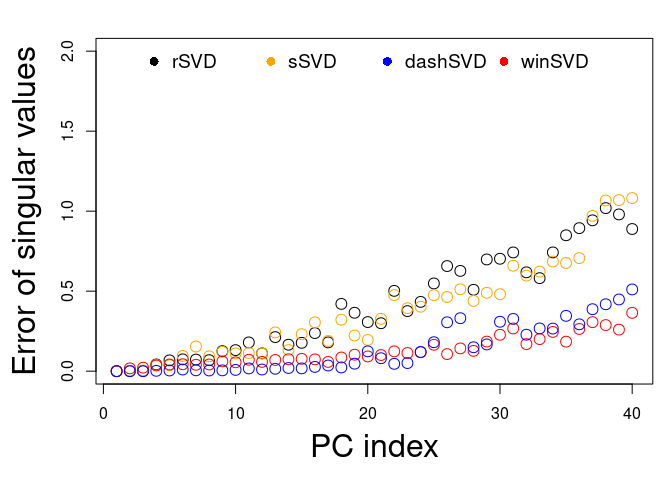
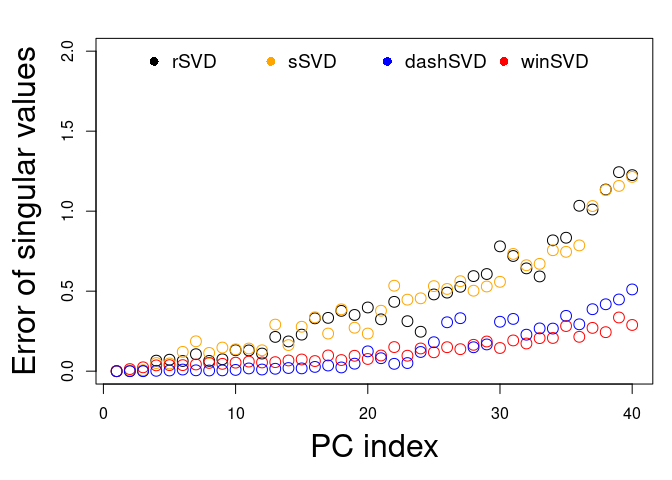
update readme

Changed region(s): [[0.1875, 0.3438, 0.9688, 0.7812]]

diff --git a/README.md b/README.md
@@ -23,8 +23,7 @@ ordered by their accuracy in below.
 
 With surports for a number of matrix type including:
 
-  - `matrix` in base R
-  - `dgeMatrix` in **Matrix** package, for general matrices
+  - `matrix` in base R for general dense matrices
   - `dgCMatrix` in **Matrix** package, for column major sparse matrices
   - `dgRMatrix` in **Matrix** package, for row major sparse matrices
 
@@ -49,9 +48,9 @@ mat <- matrix(rnorm(100*5000), 5000, 100)
 res <- pcaone(mat, k = 10)
 str(res)
 #> List of 3
-#>  $ d: num [1:10] 80.1 79.9 79.6 79 78.8 ...
-#>  $ u: num [1:5000, 1:10] 0.00058 -0.02966 0.0031 0.0049 0.00569 ...
-#>  $ v: num [1:100, 1:10] -0.3033 0.1388 -0.02 -0.1313 0.0323 ...
+#>  $ d: num [1:10] 80 80 79.4 78.9 78.6 ...
+#>  $ u: num [1:5000, 1:10] -0.0049 0.0192 -0.01689 0.00352 -0.00502 ...
+#>  $ v: num [1:100, 1:10] -0.07187 -0.19122 -0.01924 -0.08518 0.00784 ...
 #>  - attr(*, "class")= chr "pcaone"
 ```
 
@@ -71,19 +70,19 @@ A <- popgen - rowMeans(popgen) ## center
 k <- 40
 system.time(s0 <- RSpectra::svds(A, k = k) )
 #>    user  system elapsed 
-#>  27.474   3.009   1.279
+#>  28.748   5.671   1.461
 system.time(s1 <- rsvd::rsvd(A, k = k, q = 4))  ## the number of epochs is two times of power iters, 4*2=8
 #>    user  system elapsed 
-#>   8.064  12.305   0.921
+#>   8.630  13.607   1.017
 system.time(s2 <- pcaone(A, k = k, method = "ssvd", p = 7))   ## the number of epochs is 1 + p
 #>    user  system elapsed 
-#>   6.892   4.949   0.499
+#>  17.099  34.516   3.563
 system.time(s3 <- pcaone(A, k = k, method = "winsvd", p = 7)) ## the number of epochs is 1 + p
 #>    user  system elapsed 
-#>   8.821   7.993   0.821
+#>  37.849 108.382   7.642
 system.time(s4 <- pcaone(A, k = k, method = "dashsvd", p = 6))## the number of epochs is 2 + p
 #>    user  system elapsed 
-#>   5.290   1.041   0.295
+#>   5.980   5.223   0.608
 
 par(mar = c(5, 5, 2, 1))
 plot(s0$d-s1$d, ylim = c(0, 10), xlab = "PC index", ylab = "Error of singular values", cex = 1.5, cex.lab = 2)
@@ -101,13 +100,13 @@ to reach the accuracy of `winSVD`.
 ``` r
 system.time(s1 <- rsvd::rsvd(A, k = k, q = 20))  ## the number of epochs is 4*20=40
 #>    user  system elapsed 
-#>  31.081  40.246   3.117
+#>  32.674  45.492   3.436
 system.time(s2 <- pcaone(A, k = k, method = "ssvd", p = 20))
 #>    user  system elapsed 
-#>  16.221   8.828   1.064
+#>  27.644  45.689   4.485
 system.time(s4 <- pcaone(A, k = k, method = "dashsvd", p = 18))
 #>    user  system elapsed 
-#>  13.323   2.598   0.697
+#>  17.600  22.493   1.869
 
 par(mar = c(5, 5, 2, 1))
 plot(s0$d-s1$d, ylim = c(0, 2), xlab = "PC index", ylab = "Error of singular values", cex = 1.5, cex.lab = 2)
@@ -134,18 +133,12 @@ timing <- microbenchmark(
   times=10)
 print(timing, unit='s')
 #> Unit: seconds
-#>            expr       min        lq      mean    median        uq       max
-#>        RSpectra 1.2188606 1.2569006 1.2934870 1.2716421 1.3021439 1.4671394
-#>            rSVD 2.9463901 2.9751527 3.1790342 3.0345312 3.3626545 3.7373127
-#>   pcaone.winsvd 0.7909559 0.8057960 0.8709076 0.8442994 0.9053499 1.1054273
-#>     pcaone.ssvd 0.8526956 0.8768734 0.9126460 0.8968143 0.9404433 1.0432016
-#>  pcaone.dashsvd 0.6797940 0.6874866 0.7363161 0.7036035 0.8150240 0.8522621
-#>  neval
-#>     10
-#>     10
-#>     10
-#>     10
-#>     10
+#>            expr      min       lq     mean   median       uq      max neval
+#>        RSpectra 1.358759 1.380365 1.435317 1.399599 1.482455 1.623507    10
+#>            rSVD 3.187601 3.323361 3.780321 3.444072 3.952823 6.216385    10
+#>   pcaone.winsvd 7.563812 7.686590 8.090203 7.754446 7.763387 9.718475    10
+#>     pcaone.ssvd 4.397840 4.474974 5.183663 4.576512 5.532823 8.190743    10
+#>  pcaone.dashsvd 1.233052 1.280503 1.304921 1.309903 1.332356 1.354250    10
 ```
 
 ## References
